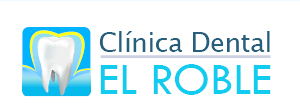
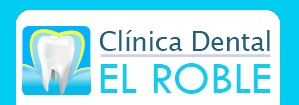
Tema aplicado v3, traduccion de tratamientos and more

diff --git a/Clinica/assets/9b5aeb43/css/bootstrap.css b/Clinica/assets/9b5aeb43/css/bootstrap.css
@@ -101,7 +101,7 @@ sub {
 img {
   width: auto\9;
   height: auto;
-  max-width: 100%;
+  max-width: 70%;
   vertical-align: middle;
   border: 0;
   -ms-interpolation-mode: bicubic;
@@ -3994,6 +3994,7 @@ input[type="submit"].btn.btn-mini {
   padding-right: 15px;
   padding-left: 15px;
   margin-bottom: 0;
+  width: 150px;
   
 }
 
@@ -4417,8 +4418,7 @@ input[type="submit"].btn.btn-mini {
 .navbar .brand {
   display: block;
   float: left;
-  padding: 10px 20px 10px;
-  margin-left: -20px;
+ 
   font-size: 20px;
   font-weight: 200;
   color: #777777;
@@ -4602,7 +4602,7 @@ input[type="submit"].btn.btn-mini {
   display: block;
   float: left;
   margin: 0 10px 0 0;
-  padding-top: 35px;
+  padding-top: 15px;
 }
 
 .navbar .nav.pull-right {

diff --git a/Clinica/protected/views/layouts/main.php b/Clinica/protected/views/layouts/main.php
@@ -27,11 +27,11 @@
 
 	
 		<?php $this->widget('bootstrap.widgets.TbNavbar', array(
-                       'brandLabel' => '<img src ="' . Yii::app()->request->baseUrl . '/slider/marca_1.jpg" />',
-                        'display' => null, // default is static to top
-                        'items' => array(
+                       'brandLabel' => '<img src ="' . Yii::app()->request->baseUrl . '/slider/marca.jpg" />',
+                        'display' => null, // default is static to top                    
+                        'items' => array(                            
                          array('class' => 'bootstrap.widgets.TbNav',                       
-			'items'=>array(
+			'items'=>array(                                                       
 				array('label'=>'Inicio', 'url'=>array('/site/index')),
 				array('label'=>'About', 'url'=>array('/site/page', 'view'=>'about') , 'visible'=>Yii::app()->user->name!='Dentista' & Yii::app()->user->name!='Asistente'),
                                 array('label'=>'Usuarios', 'url'=>array('/Usuario/index'),'visible'=>Yii::app()->user->name=='Dentista'),
@@ -49,8 +49,9 @@
                                 ),),
                                 array('label'=>'Citas', 'url'=>array('/Cita/admin'),'visible'=>Yii::app()->user->name=='Dentista'||Yii::app()->user->name=='Asistente'),
 				array('label'=>'Login', 'url'=>array('/site/login'), 'visible'=>Yii::app()->user->isGuest),
-				array('label'=>'Logout ('.Yii::app()->user->name.')', 'url'=>array('/site/logout'), 'visible'=>!Yii::app()->user->isGuest)
-			),
+				array('label'=>'Logout ('.Yii::app()->user->name.')', 'url'=>array('/site/logout'), 'visible'=>!Yii::app()->user->isGuest),
+                                'label'=>'<img src ="' . Yii::app()->request->baseUrl . '/slider/reservahoraria.png" />','url'=>array('/Cita/solicitud'),
+                            ),
                              ),
                             ),
                  

diff --git a/Clinica/protected/views/tratamiento/admin.php b/Clinica/protected/views/tratamiento/admin.php
@@ -8,8 +8,8 @@ $this->breadcrumbs=array(
 );
 
 $this->menu=array(
-	array('label'=>'List Tratamiento', 'url'=>array('index')),
-	array('label'=>'Create Tratamiento', 'url'=>array('create')),
+	array('label'=>'Listar Tratamiento', 'url'=>array('index')),
+	array('label'=>'Crear Tratamiento', 'url'=>array('create')),
 );
 
 Yii::app()->clientScript->registerScript('search', "

diff --git a/Clinica/protected/views/tratamiento/index.php b/Clinica/protected/views/tratamiento/index.php
@@ -7,8 +7,8 @@ $this->breadcrumbs=array(
 );
 
 $this->menu=array(
-	array('label'=>'Create Tratamiento', 'url'=>array('create')),
-	array('label'=>'Manage Tratamiento', 'url'=>array('admin')),
+	array('label'=>'Crear Tratamiento', 'url'=>array('create')),
+	array('label'=>'Administrar Tratamiento', 'url'=>array('admin')),
 );
 ?>
 

diff --git a/Clinica/protected/views/tratamiento/create.php b/Clinica/protected/views/tratamiento/create.php
@@ -8,8 +8,8 @@ $this->breadcrumbs=array(
 );
 
 $this->menu=array(
-	array('label'=>'List Tratamiento', 'url'=>array('index')),
-	array('label'=>'Manage Tratamiento', 'url'=>array('admin')),
+	array('label'=>'Listar Tratamiento', 'url'=>array('index')),
+	array('label'=>'Administrar Tratamiento', 'url'=>array('admin')),
 );
 ?>
 

diff --git a/Clinica/protected/views/tratamiento/_form.php b/Clinica/protected/views/tratamiento/_form.php
@@ -38,7 +38,7 @@
 	</div>
         
 	<div class="row buttons">
-		<?php echo CHtml::submitButton($model->isNewRecord ? 'Create' : 'Save'); ?>
+		<?php echo CHtml::submitButton($model->isNewRecord ? 'Crear' : 'Guardar'); ?>
 	</div>
 
 <?php $this->endWidget(); ?>
